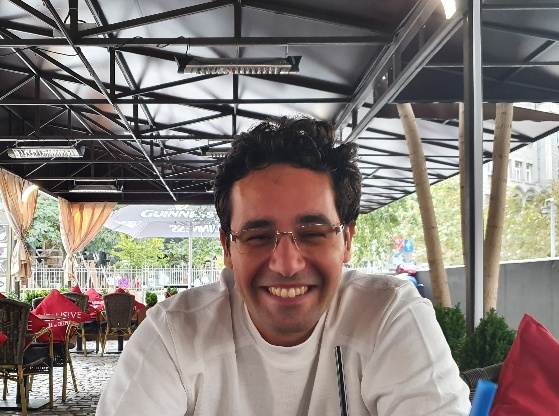
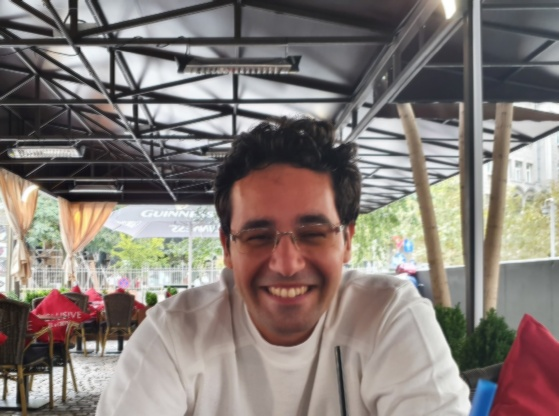
adjusted deviation values

diff --git a/project/main.py b/project/main.py
@@ -13,7 +13,7 @@ def generate_norms_2d(n, deviation):
 
 
 def apply_gauss(img, compression=1, norm_count=100, deviation=1):
-    norms = generate_norms_2d(norm_count, deviation / 1000 * np.log(img.size))
+    norms = generate_norms_2d(norm_count, deviation / 10 * np.log(img.size))
 
     # get list of rows based on compression
     rows = np.linspace(0, img.shape[0]-1, int(img.shape[0]/compression), dtype=int)

diff --git a/project/compress.py b/project/compress.py
@@ -10,7 +10,7 @@ get_image = lambda: cv2.imread(image_path, cv2.IMREAD_COLOR)
 def compress(img):
 
     # compresses image by a scale of 5 with slight smoothing
-    img = apply_gauss(img, 5, 50, 1)
+    img = apply_gauss(img, 5, 50, 3)
 
     cv2.imwrite("assets/compressed.jpg", img)
 

diff --git a/project/smoothen.py b/project/smoothen.py
@@ -9,7 +9,7 @@ get_image = lambda: cv2.imread(image_path, cv2.IMREAD_COLOR)
 
 def smoothen(img):
 
-    # smooths image by a deviation of 0.2
+    # smooths image by a deviation of 1
     img = apply_gauss(img, 1, 150, 1)
 
     cv2.imwrite("assets/smoothed.jpg", img)
